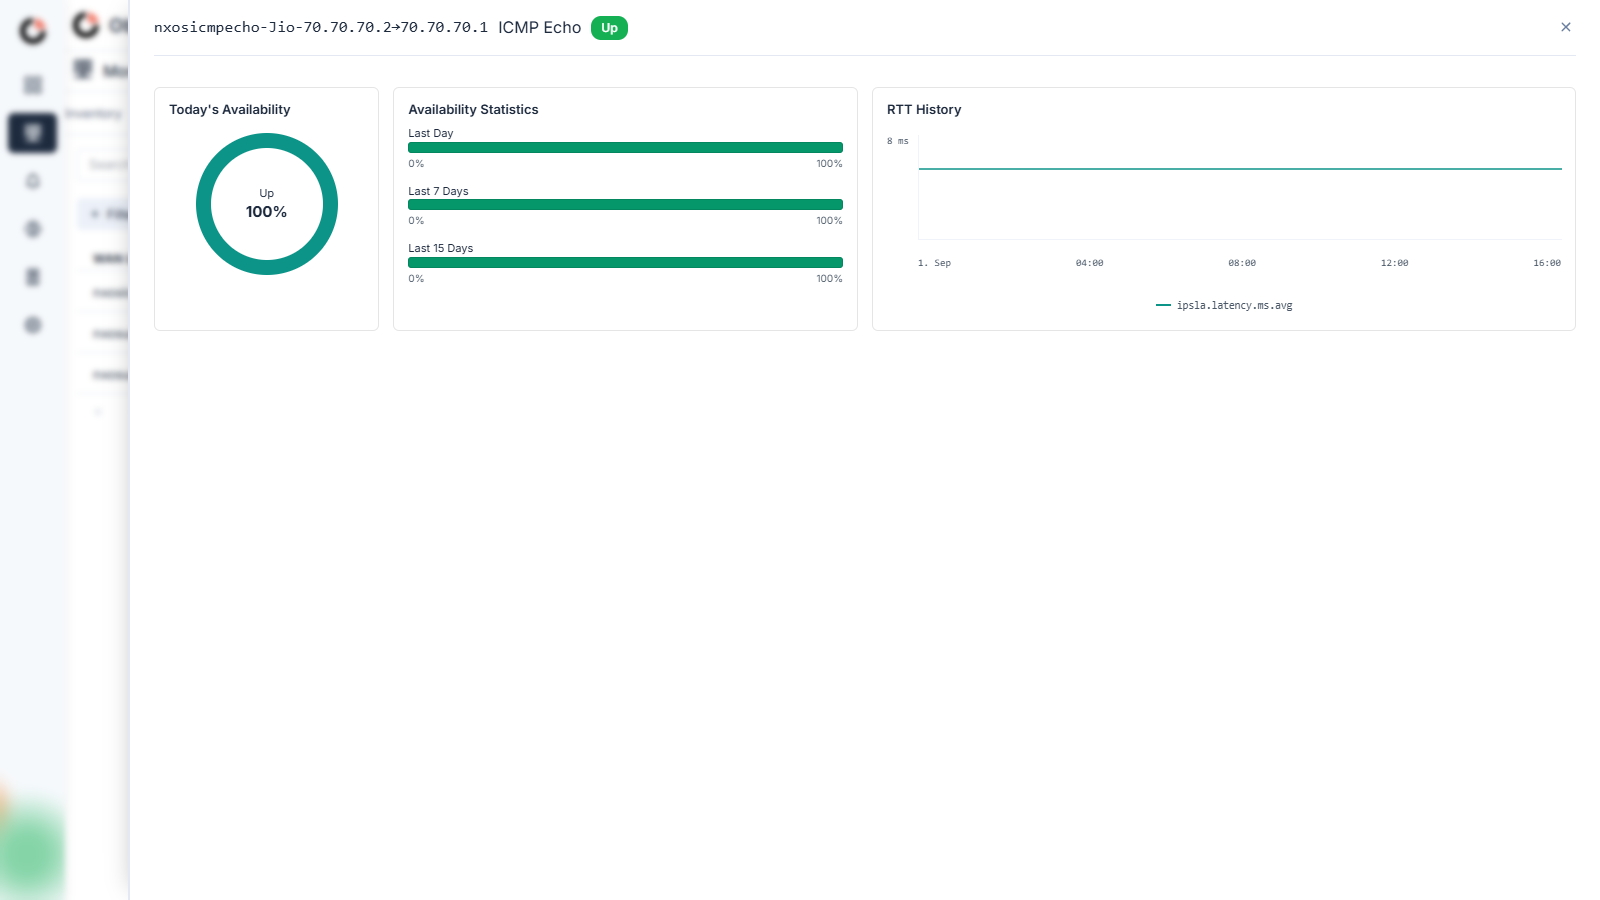
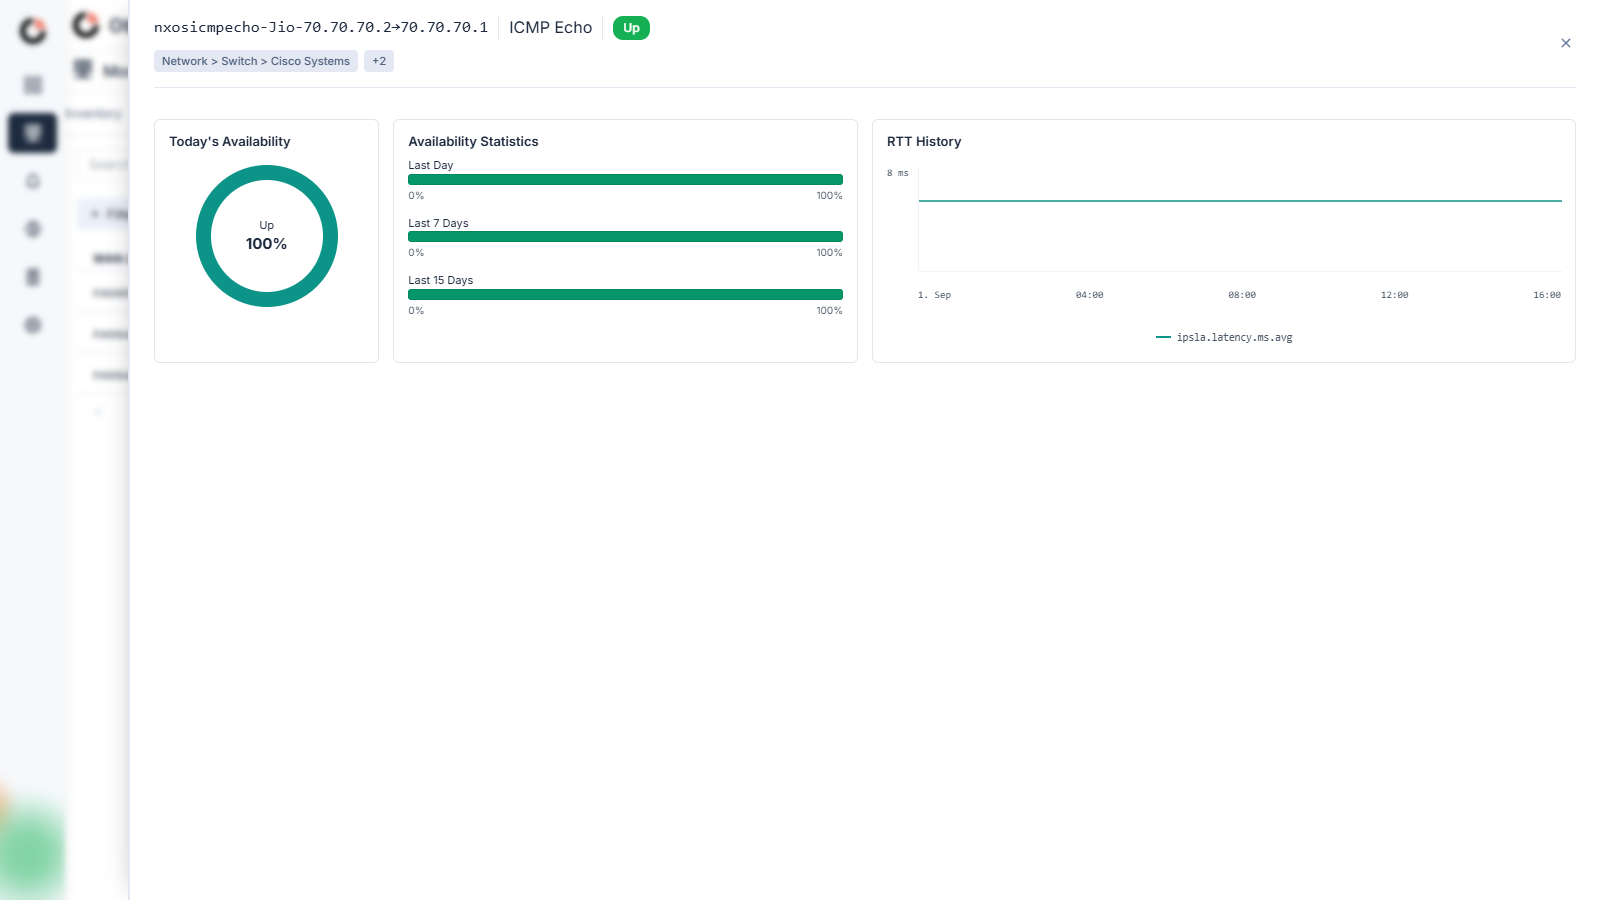
fix(wan-link): vertical rules and group chips in the drawer header
The product separates name / probe type / status with vertical rules, and
shows the monitor's group path plus a +N overflow chip beneath the title.
The wireframe had the group row; the DS build had dropped it.

Separators are borders on empty spans rather than a pipe glyph, so they
keep their weight at any font size. --divider-color does not exist in the
DS; --border-color does. The render probe measures the painted width, since
an unresolved token would leave them invisible with no error.

diff --git a/src/wan-link/detailDrawer.js b/src/wan-link/detailDrawer.js
@@ -58,10 +58,18 @@ export function renderDetailDrawer({ link, onClose }) {
   drawer.setAttribute('open', '')
 
   drawer.innerHTML = `
-    <div slot="title" class="wl-drawer__title">
-      <span class="wl-name">${escape(link.name)}</span>
-      <span class="wl-drawer__probe">${escape(probe.label)}</span>
-      <obs-severity severity="${escape(link.status)}" shape="chip" display-text></obs-severity>
+    <div slot="title">
+      <div class="wl-drawer__title">
+        <span class="wl-name">${escape(link.name)}</span>
+        <span class="wl-drawer__sep" aria-hidden="true"></span>
+        <span class="wl-drawer__probe">${escape(probe.label)}</span>
+        <span class="wl-drawer__sep" aria-hidden="true"></span>
+        <obs-severity severity="${escape(link.status)}" shape="chip" display-text></obs-severity>
+      </div>
+      <div class="wl-drawer__groups">
+        <obs-tag>${escape(link.group)}</obs-tag>
+        ${link.moreGroups ? `<obs-tag>+${escape(link.moreGroups)}</obs-tag>` : ''}
+      </div>
     </div>
     ${tiles.length ? `<div class="wl-tiles">${tiles.map(tileHTML).join('')}</div>` : ''}
     <div class="wl-grid">${body}</div>

diff --git a/src/wan-link/detailDrawer.test.js b/src/wan-link/detailDrawer.test.js
@@ -35,6 +35,17 @@ describe('detail drawer', () => {
     expect(jitter.textContent).toContain('30 Days')
   })
 
+  it('separates name, probe type and status with two vertical rules', () => {
+    const drawer = renderDetailDrawer({ link: linkOf('udp-jitter'), onClose: () => {} })
+    expect(drawer.querySelectorAll('.wl-drawer__sep')).toHaveLength(2)
+  })
+
+  it('shows the group path and the overflow count as chips', () => {
+    const drawer = renderDetailDrawer({ link: linkOf('udp-jitter'), onClose: () => {} })
+    const tags = [...drawer.querySelectorAll('.wl-drawer__groups obs-tag')]
+    expect(tags.map((t) => t.textContent)).toEqual(['Network > Switch > Cisco Systems', '+2'])
+  })
+
   it('carries the link status as a severity chip', () => {
     const drawer = renderDetailDrawer({ link: linkOf('udp-jitter'), onClose: () => {} })
     const chip = drawer.querySelector('obs-severity')

diff --git a/src/wan-link/probes.js b/src/wan-link/probes.js
@@ -14,6 +14,11 @@ export const PROBES = {
  */
 export const displayRtt = (status, rtt) => (status === 'down' ? '' : rtt)
 
+// The monitor's group path, shown as a chip under the drawer title. The product shows the first
+// path plus a "+N" chip for the groups that do not fit; NX-OS devices are Nexus switches.
+const GROUP = 'Network > Switch > Cisco Systems'
+const MORE_GROUPS = 2
+
 const link = (id, probe, carrier, src, dst, iface, status, rtt) => ({
   id,
   probe,
@@ -24,6 +29,8 @@ const link = (id, probe, carrier, src, dst, iface, status, rtt) => ({
   sourceInterface: iface,
   rtt: displayRtt(status, rtt),
   status,
+  group: GROUP,
+  moreGroups: MORE_GROUPS,
 })
 
 // One sample per probe — the list is here to reach each probe's detail drawer, not to demonstrate

diff --git a/src/wan-link/wanLink.css b/src/wan-link/wanLink.css
@@ -132,7 +132,23 @@
   flex-wrap: wrap;
 }
 
+/* The product separates name │ probe type │ status with vertical rules, not whitespace. A real
+   border rather than a "|" glyph, so it keeps its weight and height at any font size. */
+.wl-drawer__sep {
+  align-self: stretch;
+  width: 0;
+  min-height: 18px;
+  border-left: 1px solid var(--border-color);
+}
+
 .wl-drawer__probe { color: var(--secondary-text-color); font-weight: 400; }
+
+.wl-drawer__groups {
+  display: flex;
+  align-items: center;
+  gap: 6px;
+  margin-top: 8px;
+}
 
 .wl-donut {
   width: 112px;
